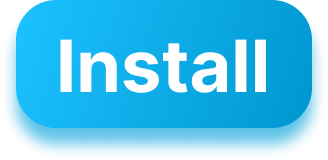
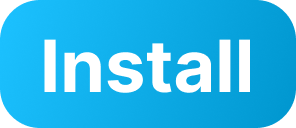
readme: tweak install button

diff --git a/README.md b/README.md
@@ -35,7 +35,7 @@ See the [docs](https://docs.knapsackpro.com/jest/guide/) to get started:
 
 <div align="center">
   <a href="https://docs.knapsackpro.com/jest/guide/">
-    <img alt="Install button" src="./.github/assets/install-button.png" width="103" height="50" />
+    <img alt="Install button" src="./.github/assets/install-button.png" width="116" height="50" />
   </a>
 </div>
 
